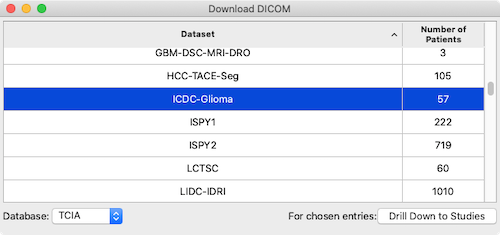
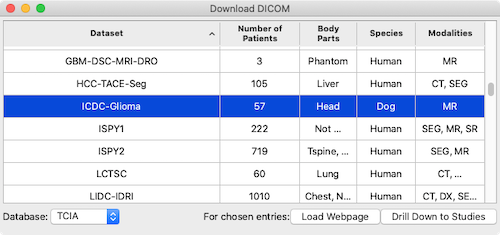
"Load Webpage" added in collection context menu and as button; updated figure

Changed region(s): [[0.0, 0.2085, 0.99, 0.983], [0.0, 0.0, 0.99, 0.1787]]

diff --git a/docs/user/tools/downloaddicom.html b/docs/user/tools/downloaddicom.html
@@ -48,10 +48,7 @@ alt="series in ChimeraX" title="click to enlarge..."></a>
 
 <p>
 <b>Download DICOM</b> allows browsing and fetching publicly available
-medical image data into ChimeraX. It can be started from the
-<b>Medical Imaging</b> section of the <b>Tools</b> menu
-and manipulated like other panels
-(<a href="../window.html#panels">more...</a>).
+medical image data into ChimeraX. 
 See also: 
 <a href="../commands/open.html#fetch"><b>open</b></a>,
 <a href="dicombrowser.html"><b>DICOM Browser</b></a>,
@@ -83,7 +80,13 @@ in ChimeraX.
 </ul>
 <p>
 <b>Download DICOM</b> allows traversing the hierachy from collections
-to studies to series, then choosing series to fetch and open.
+&rarr; studies &rarr; series, then choosing series to fetch and open.
+It can be started from the
+<b>Medical Imaging</b> section of the <b>Tools</b> menu
+and manipulated like other panels
+(<a href="../window.html#panels">more...</a>).
+It may take a few minutes to load the many rows and columns of information
+into the dialog.
 </p><p>
 <a name="chosen"></a>
 One or more rows in the dialog can be chosen (highlighted)
@@ -91,12 +94,18 @@ by clicking and dragging with the left mouse button;
 <b>Ctrl</b>-click (or <b>command</b>-click if using a Mac)
 toggles whether a row is chosen.
 </p>
-Initially, the dialog lists collections. One or more collections can
-be chosen, and clicking <b>Drill down to Studies</b> will list the studies 
-they contain. The TCIA page describing each chosen collection can be shown
-with the <a href="../window.html#context-menu">context menu</a> entry to
-<b>Load Webpage for Chosen Entries</b>.
-</p><p>
+Initially, the dialog lists collections.
+One or more collections can be chosen for further actions:
+</p>
+<ul>
+<li>Clicking <b>Load Webpage</b> or using the
+<a href="../window.html#context-menu">context menu</a> entry to
+<b>Load Webpage for Chosen Entries</b> will open the TCIA webpage 
+describing each chosen collection.
+<li>Clicking <b>Drill down to Studies</b> will switch the dialog to
+listing the studies within each chosen collection.
+</ul>
+<p>
 When the dialog is listing studies, one or more studies can be chosen, 
 and clicking <b>Drill Down to Series</b> will list the series
 they contain.
@@ -107,7 +116,6 @@ Buttons for navigating back up the hierarchy (<b>Back to Studies</b>,
 <b>Back to Collections</b>) are provided at the lower levels.
 </p><p>
 The data are stored locally in <b>~/Downloads/ChimeraX/tciaDownload/</b>.
-<!-- will cached data be reused? -->
 </p>
 
 <hr>
